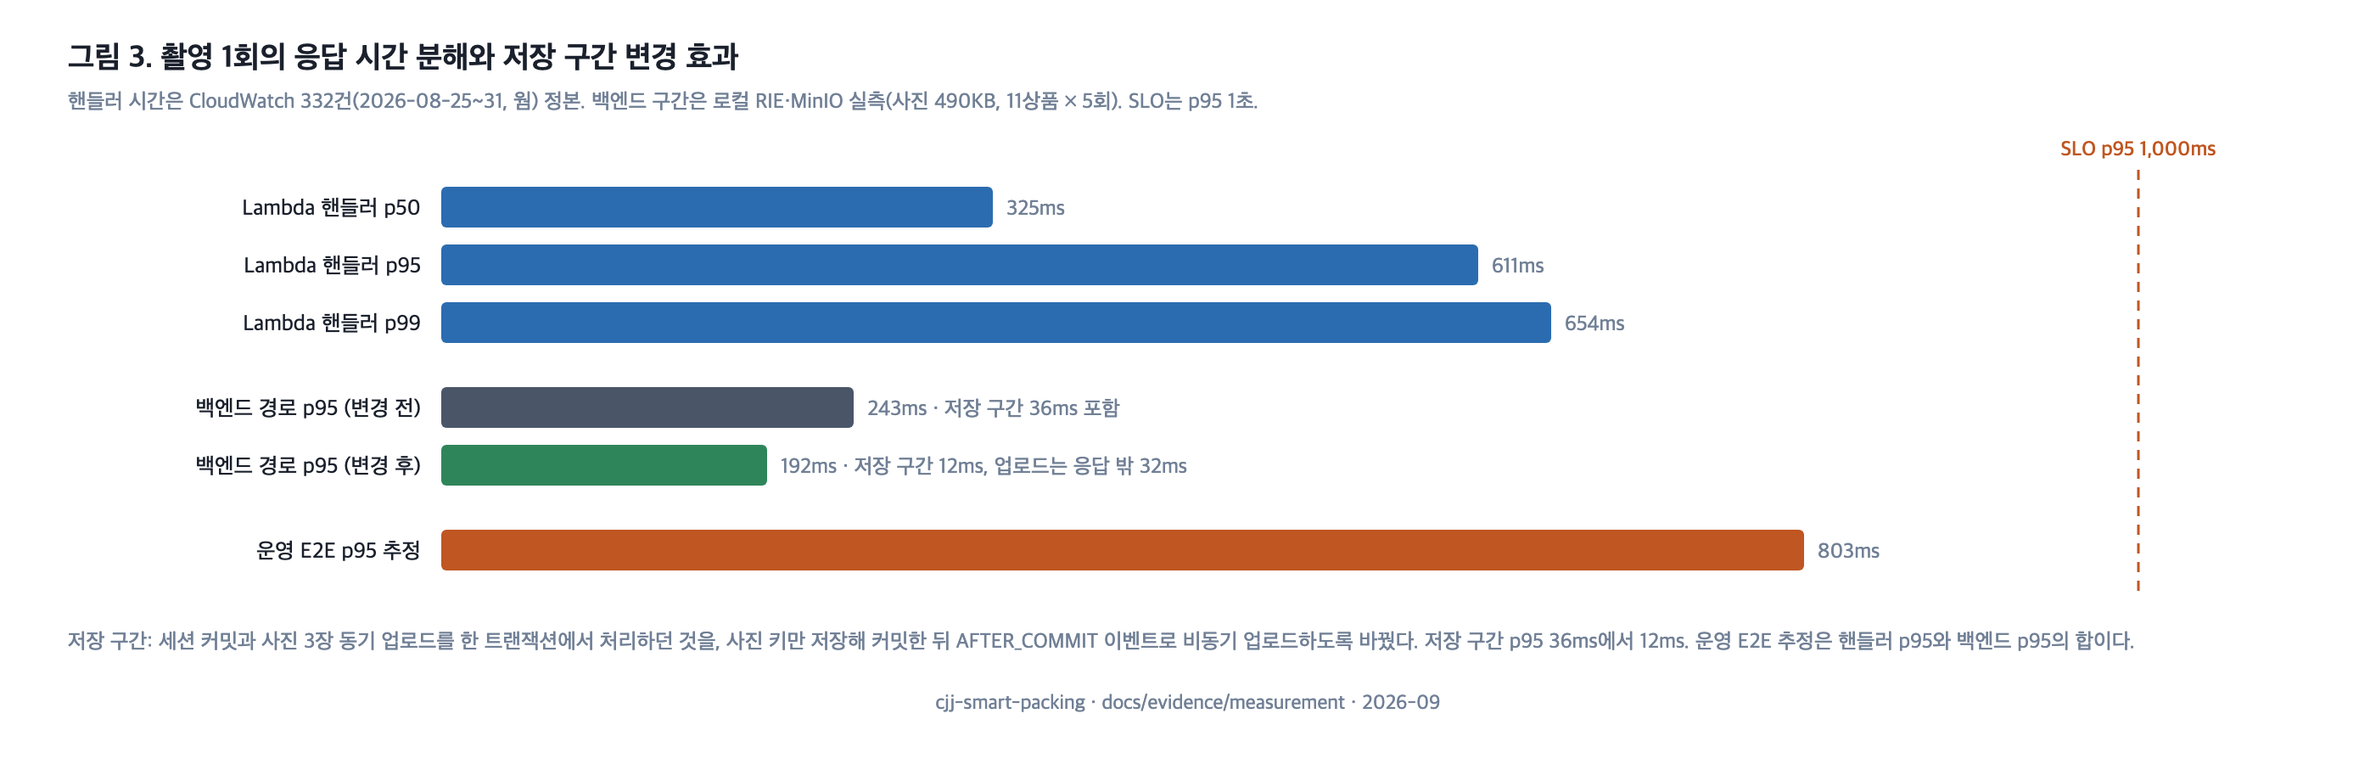
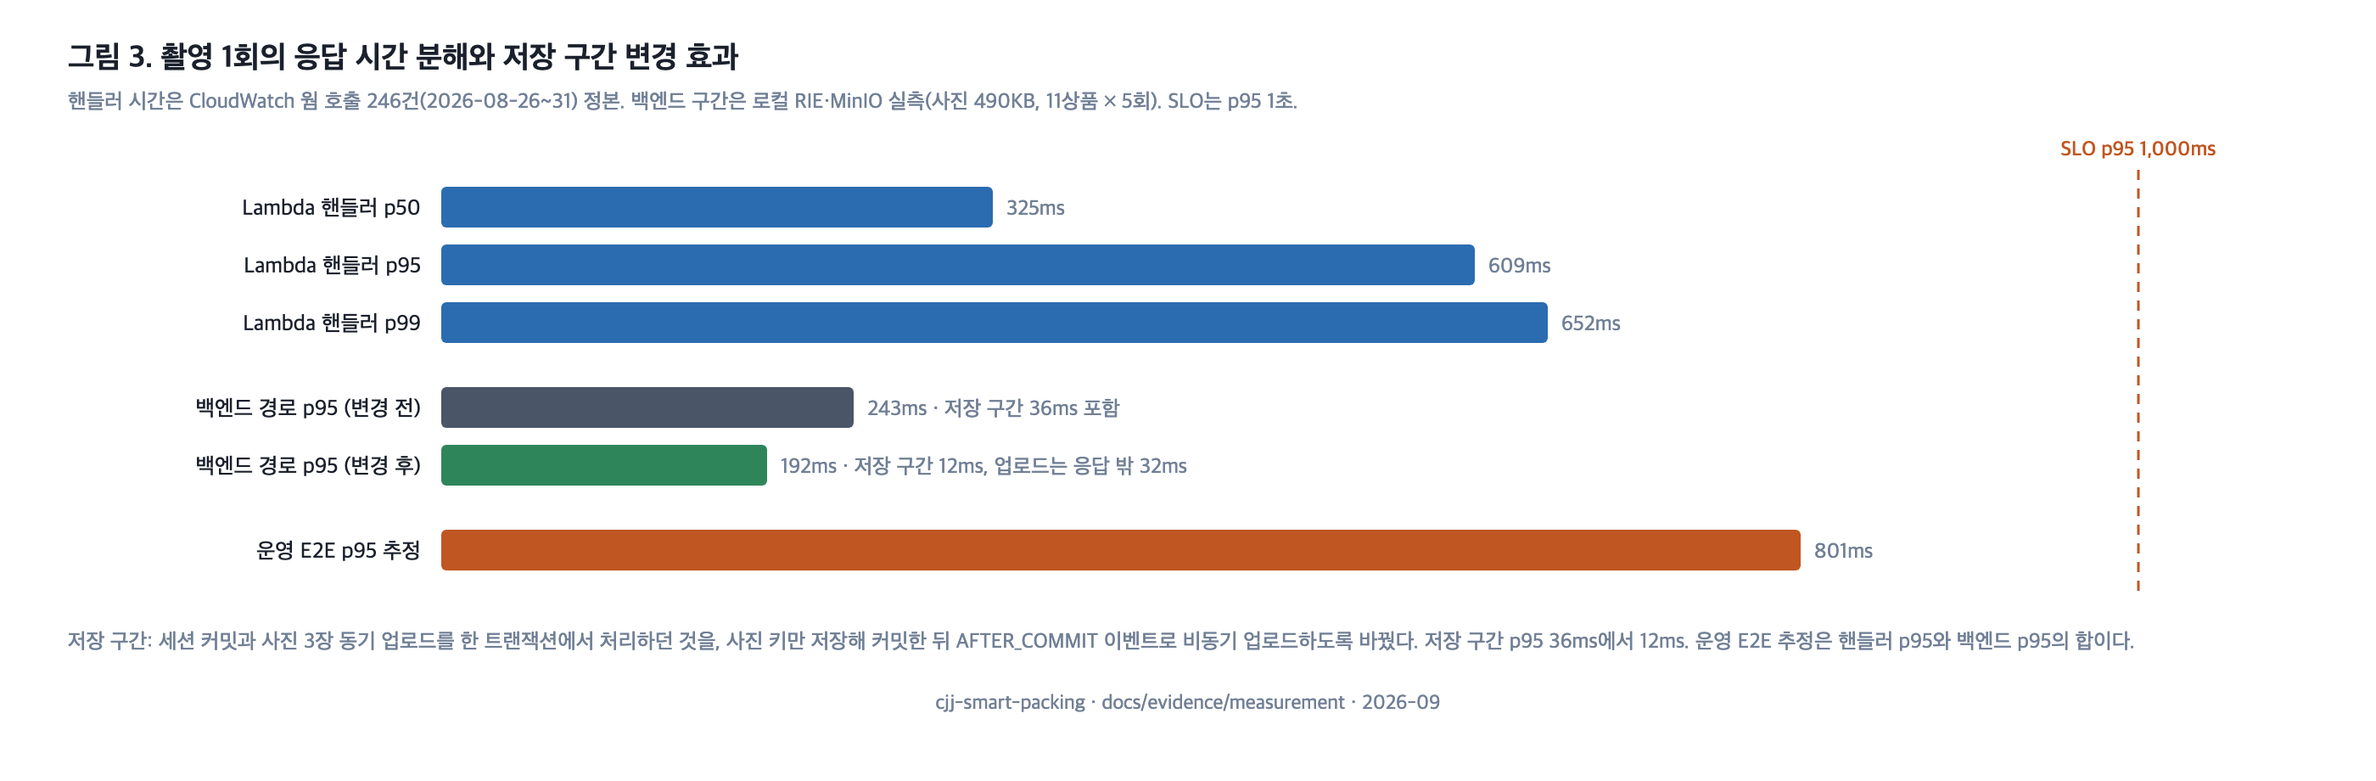
docs: Lambda 호출 통계를 재집계 기준으로 정정 (호출 319건, 웜 246건 p95 609ms)
CloudWatch 332는 로그 이벤트 수였다. 8/25 배포 검증일을 제외한 웜 246건 기준으로 통일하고 그림 3을 재생성.
blog: 초안 C v2 — 구조·근거 비평 반영

diff --git a/docs/figures/gen_figures.py b/docs/figures/gen_figures.py
@@ -133,7 +133,7 @@ open("fig4-model-promotion.svg","w").write(svg(1400,560,"\n".join(b),"cjj-smart-
 # ---------- 그림 4. 촬영 1회 시간 분해 ----------
 b=[]
 b.append(label(40,40,"그림 3. 촬영 1회의 응답 시간 분해와 저장 구간 변경 효과",18,weight="700"))
-b.append(label(40,64,"핸들러 시간은 CloudWatch 332건(2026-08-25~31, 웜) 정본. 백엔드 구간은 로컬 RIE·MinIO 실측(사진 490KB, 11상품 × 5회). SLO는 p95 1초.",12.5,C["muted"]))
+b.append(label(40,64,"핸들러 시간은 CloudWatch 웜 호출 246건(2026-08-26~31) 정본. 백엔드 구간은 로컬 RIE·MinIO 실측(사진 490KB, 11상품 × 5회). SLO는 p95 1초.",12.5,C["muted"]))
 scale=1.0  # px per ms
 x0=260; y=110
 def bar(y,name,val,color,note=""):
@@ -142,11 +142,11 @@ def bar(y,name,val,color,note=""):
        label(x0+val*scale+8,y+17,f"{val}ms"+(f"  ·  {note}" if note else ""),12.5,C["muted"])]
     return "\n".join(o)
 b.append(bar(y,"Lambda 핸들러 p50",325,C["accent"])); y+=34
-b.append(bar(y,"Lambda 핸들러 p95",611,C["accent"])); y+=34
-b.append(bar(y,"Lambda 핸들러 p99",654,C["accent"])); y+=50
+b.append(bar(y,"Lambda 핸들러 p95",609,C["accent"])); y+=34
+b.append(bar(y,"Lambda 핸들러 p99",652,C["accent"])); y+=50
 b.append(bar(y,"백엔드 경로 p95 (변경 전)",243,C["edge"],"저장 구간 36ms 포함")); y+=34
 b.append(bar(y,"백엔드 경로 p95 (변경 후)",192,C["ok"],"저장 구간 12ms, 업로드는 응답 밖 32ms")); y+=50
-b.append(bar(y,"운영 E2E p95 추정",611+192,C["warn"])); y+=40
+b.append(bar(y,"운영 E2E p95 추정",609+192,C["warn"])); y+=40
 # SLO line
 sx=x0+1000*scale
 b.append(f"<line x1='{sx}' y1='100' x2='{sx}' y2='{y}' stroke='{C['warn']}' stroke-width='1.5' stroke-dasharray='6 5'/>")

diff --git a/docs/blog/drafts/c-serving.md b/docs/blog/drafts/c-serving.md
@@ -1,6 +1,6 @@
-# GPU 전제 8초 계약을 CPU Lambda로 — 치수 추정 모델 서빙 3일
+# GPU 전제 8초 계약을 CPU Lambda로 옮긴 치수 추정 서빙
 
-추론 API의 타임아웃 8초는 GPU 개발 파드에서 서빙한다는 전제로 정한 값이었습니다(결정 이력 D-15). 근거는 CPU 실측이었습니다. CPU 추론이 V3 모델 5.87초, V2 모델 17.47초였고, GPU면 그 안에 들어온다는 계산이었습니다. 그런데 시연 환경에는 GPU가 없었습니다. AI 담당은 학습 결과를 torch 형식(`model.safetensors`)으로 Hugging Face 비공개 저장소에 올리는 방식으로 일하고 있었고, 그 절차를 바꿀 시간도 없었습니다. 이 글에서는 서빙 위치를 고른 근거, torch를 ONNX로 바꾸는 일을 이미지 빌드에 넣은 이유, 백엔드 연동에서 만난 네 갈림길, 그리고 시연 기간 호출 332건의 분포를 다룹니다.
+치수 추정 모델은 카메라 3대가 찍은 사진 3장을 받아 상품의 가로·세로·높이를 cm로 돌려줍니다. 이 추론 API의 타임아웃 8초는 GPU 개발 파드에서 서빙한다는 전제로 정한 값이었습니다. 근거는 CPU 실측 5.87초였고, GPU 서빙을 전제로 8초를 확정했습니다. 그런데 시연 환경에는 GPU가 없었습니다. AI 담당은 학습 결과를 torch 형식(`model.safetensors`)으로 Hugging Face 비공개 저장소에 올리는 방식으로 일하고 있었고, 그 절차를 바꿀 시간도 없었습니다. 이 글에서는 서빙 위치를 고른 근거, torch를 ONNX로 바꾸는 일을 이미지 빌드에 넣은 이유, 백엔드 계약과 실제 API의 차이를 맞춘 결정, 콜드스타트와 8초 계약의 충돌, 배포 파이프라인에서 막힌 한 지점, 그리고 시연 기간 호출 319건의 분포를 다룹니다.
 
 ## 서빙 위치
 
@@ -9,14 +9,16 @@ Lambda 컨테이너 이미지를 택했습니다. 입고 신규 상품 등록은
 | 방식 | 장점 | 기각 사유 |
 | --- | --- | --- |
 | GPU 개발 파드 | 계약 산정 기준 그대로 | 시연 환경에서 접근·가용 보장 없음. 외부 의존이 요청 경로에 남음 |
-| EC2 상시 서버 + torch | 구조 단순, 콜드스타트 없음 | CPU torch 추론 1,070ms. 간헐 트래픽에 상시 비용. 백엔드와 같은 인스턴스에 동거 |
-| Lambda 컨테이너 + ONNX Runtime (채택) | 호출당 과금. ONNX로 추론 185ms, 모델 로드 0.22초 | 콜드스타트 관리 필요. zip 배포는 250MB 한도라 컨테이너 이미지(10GB) 필수 |
+| EC2 상시 서버 + torch | 구조 단순, 콜드스타트 없음 | CPU torch 추론 1,070ms(macOS 로컬, 4스레드). 간헐 트래픽에 상시 비용. 백엔드와 같은 인스턴스에 동거 |
+| Lambda 컨테이너 + ONNX Runtime (채택) | 호출당 과금. 시연 기간 웜 호출 p50 325ms | 콜드스타트 관리 필요. zip 배포는 250MB 한도라 컨테이너 이미지(10GB) 필수 |
 
-EC2 안은 처음에 병행 트랙으로 만들었다가 폐기했습니다. 인스턴스가 백엔드 서버로 전환되면서 추론 배포 워크플로가 남아 있으면 8000 포트가 충돌했기 때문입니다.
+ONNX Runtime으로 바꾼 효과는 로컬에서 먼저 확인했습니다. 같은 사진 3장 기준으로 추론은 1,070ms에서 185ms로, 모델 로드는 3.10초에서 0.22초로 줄었습니다(macOS, 4스레드, 워밍업 1회 뒤 5회 중앙값). 예측값은 61.6 / 55.8 / 4.0cm로 소수 첫째 자리까지 같았고, 변환 직후 원시 출력 대조에서 max diff는 7.45e-08이었습니다.
 
-## torch에서 ONNX로, 그리고 이미지 빌드 안으로
+이 선택이 성립하는 조건은 둘입니다. 호출이 간헐적이라 상시 서버의 유휴 시간이 길고, 콜드스타트를 허용하거나 피할 수단이 있어야 합니다. 초당 수십 건이 상시로 들어오거나 첫 호출 지연을 절대 허용할 수 없다면 EC2 상시 서버가 맞습니다.
 
-같은 사진 3장 기준으로 추론은 1,070ms에서 185ms로, 모델 로드는 3.10초에서 0.22초로 줄었습니다(macOS, 4스레드, 워밍업 1회 뒤 5회 중앙값). 예측값은 61.6 / 55.8 / 4.0cm로 소수 첫째 자리까지 같았고, 변환 직후 원시 출력 대조에서 max diff는 7.45e-08이었습니다.
+EC2 안은 처음에 병행 트랙으로 만들었다가 폐기했습니다. 인스턴스가 백엔드 서버로 전환되면서 추론 배포 워크플로가 남아 있으면 8000 포트가 충돌했기 때문입니다. safetensors 업로드 절차는 그대로 둔 채, 변환을 누가 언제 할지만 정하면 됐습니다.
+
+## 변환 시점과 이미지 빌드 단계
 
 변환을 사람이 돌려서 올리는 절차는 만들지 않았습니다. Dockerfile을 변환 스테이지와 런타임 스테이지로 나눠, 이미지 빌드가 safetensors를 받아 ONNX로 바꾸고 결과만 런타임 이미지에 남깁니다.
 
@@ -39,9 +41,9 @@ if not diff <= tolerance:                                    # tolerance = 1e-4
 
 비교 조건을 `diff > tol`이 아니라 `not diff <= tol`로 쓴 이유는 주석에 있습니다. 변환이 깨져 NaN이 나오면 `diff > tol`은 False라 통과해 버립니다.
 
-## 백엔드 연동의 네 갈림길
+## 백엔드 계약과 실제 API의 차이
 
-백엔드가 들고 있던 잠정 계약과 실제 Lambda API는 거의 모든 항목에서 달랐습니다.
+백엔드가 들고 있던 잠정 계약과 실제 Lambda API는 형식이 전부 달랐습니다.
 
 | 항목 | 백엔드 잠정 계약 | 실제 Lambda |
 | --- | --- | --- |
@@ -50,51 +52,63 @@ if not diff <= tolerance:                                    # tolerance = 1e-4
 | 인증 | 없음 | `X-API-Key` 헤더 + IAM `lambda:InvokeFunction` |
 | 통로 | HTTP | SDK Invoke, API Gateway v2 이벤트 형식, body base64 |
 | 응답 | `widthCm, lengthCm, heightCm, confidence` | `length, width, height, views_used, warnings, elapsed_ms`. confidence 없음 |
-| 타임아웃 | 8초 | 웜 0.3~0.5초, 콜드 약 10초 |
 
-여기서 결정할 것이 넷이었습니다.
+형식에서 결정할 것이 셋이었습니다.
 
-**이미지 출처.** 프론트가 사진 3장을 첨부하는 안(계약이 JSON에서 multipart로 바뀜), 백엔드가 상품별 사진을 보관해 그것으로 호출하는 안, 둘의 혼합 중 두 번째를 택했습니다. 프론트에 촬영·업로드 화면이 없었고, 시연 상품의 사진은 시연 데이터 서브시스템이 이미 관리하고 있었습니다. 사진이 없으면 `MEASURE_FAILED(NO_IMAGES)`로 끝냅니다.
+**이미지 출처.** 프론트가 사진 3장을 첨부하는 안(계약이 JSON에서 multipart로 바뀜), 백엔드가 상품별 사진을 보관해 그것으로 호출하는 안, 둘의 혼합 중 두 번째를 택했습니다. 프론트에 촬영·업로드 화면이 없었고, 시연 상품의 사진은 시연 데이터 서브시스템(시연용 상품·주문·사진을 적재하고 리셋하는 백엔드 모듈)이 이미 관리하고 있었습니다. 단점은 분명합니다. 촬영과 무관한 고정 사진이라 재촬영해도 결과가 같습니다. 사진이 없으면 `MEASURE_FAILED(NO_IMAGES)`로 끝냅니다.
 
 **호출 통로.** 공개 URL을 두지 않았습니다. 백엔드가 EC2 인스턴스 프로파일로 AWS SDK `Invoke`를 호출하고, API Gateway v2 형식의 이벤트 JSON(multipart body를 base64로)을 직접 조립합니다. AWS 리소스 변경이 없고 저장된 자격증명이 없습니다. Function URL에 IAM 인증을 붙이는 안은 SigV4 서명 의존과 권한 추가가 필요했고, 인증 없는 Function URL은 주소를 아는 누구나 호출할 수 있어 기각했습니다.
 
 **confidence 부재.** 모델은 신뢰도를 내보내지 않습니다. 표본 958개로는 구간별 확률표가 불안정해 학습 담당이 의도적으로 뺐습니다. 응답 필드는 유지하되 null을 허용하고, null이면 저신뢰 판정을 건너뜁니다. `views_used`나 `warnings`로 대체값을 만드는 안은 근거 없는 숫자를 신뢰도로 보여주는 것이라 기각했습니다.
 
-**콜드스타트 10초 대 계약 8초.** 첫 호출은 모델 로드까지 약 10초로 계약을 넘겼습니다.
+형식은 이렇게 맞췄습니다. 남은 것은 시간이었습니다.
+
+## 콜드스타트와 8초 계약
+
+첫 호출은 계약을 넘겼습니다. 설계 시점의 추정은 모델 로드까지 약 10초였고, 8월 25일 실서버 첫 호출은 4.9초, 웜 호출은 0.3~0.5초였습니다. 시연 첫 촬영이 실패 화면으로 끝나는 경로였습니다.
 
 | 방식 | 결과 | 기각 사유 |
 | --- | --- | --- |
-| 타임아웃 상향(8초 → 15초) | 첫 호출도 성공 | 시연 첫 촬영의 10초 대기가 화면에 그대로 보임 |
+| 타임아웃 상향(8초 → 15초) | 첫 호출 성공 가능성 상승 | 시연 첫 촬영의 긴 대기가 화면에 그대로 보임 |
 | 백엔드 주기 워밍 핑 | AWS 변경 없음 | 환경 교체 시 보장 없음. 백엔드 기동 직후 첫 호출은 콜드 |
-| Provisioned concurrency 상시 1 | 콜드스타트 제거 | 유휴 과금 월 약 32달러(3,008MB 상시, 미국 동부 단가) |
+| Provisioned concurrency 상시 1 | 콜드스타트 제거 | 3,008MB 실행 환경 하나를 상시 과금 |
 | 시연 시간대만 Provisioned concurrency 예약 (채택) | 계약 8초 유지, 시연 시간 외 비용 0 | 버전 발행·별칭·Application Auto Scaling 예약 액션 관리 |
 
-Application Auto Scaling의 예약 액션 두 개로 시연 당일 08:50에 1로 올리고 17:00에 0으로 내렸습니다. 함수 메모리는 3,008MB입니다. 10,240MB로 올리려 했으나 계정 쿼터가 3,008MB였고 증설은 Support 케이스가 필요했습니다.
+Application Auto Scaling의 예약 액션 두 개로 시연 당일 08:50에 1로 올리고 17:00에 0으로 내렸습니다.
 
-## 배포 자동화와 백엔드 쪽 두 가지 수정
+함수 메모리는 3,008MB입니다. 메모리를 올린 이유는 용량이 아니라 vCPU 배정입니다. Lambda는 메모리에 비례해 vCPU를 배정하고, 1,769MB에서 1개입니다. 3,008MB면 약 1.7개라 ONNX Runtime 스레드 `N_THREADS`는 올림한 2로 뒀습니다. 배정보다 스레드가 많으면 서로 CPU를 뺏어 느려집니다. 10,240MB로 올리면 약 6개까지 배정되지만, 당시 확인한 계정 쿼터가 3,008MB였고 증설은 Support 케이스를 거쳐야 해서 신청하지 않았습니다.
 
-배포는 GitHub Actions가 OIDC로 AWS 역할을 위임받아 ECR push, Lambda 코드 갱신, `live` 별칭 이동까지 자동으로 합니다. 액세스 키를 저장소에 두지 않습니다. 여기서 한 번 막혔습니다. 신뢰 정책에 `repo:cj-ai-sw/ai:*`를 넣었는데 `Not authorized to perform sts:AssumeRoleWithWebIdentity`가 났습니다. 이 조직의 토큰은 `sub` 클레임이 `repo:cj-ai-sw@316033991/ai@1340552961:ref:...`처럼 소유자 ID와 저장소 ID가 붙은 형식으로 발급됐습니다. 이름형과 ID형을 둘 다 넣어야 매칭됩니다.
+백엔드 쪽에서는 추론 호출을 트랜잭션 밖으로 뺐습니다. 콜드 호출이 몇 초씩 걸리는 동안 DB 커넥션을 잡고 있을 이유가 없습니다. 측정 저장을 별도 빈으로 분리해 트랜잭션 경계가 실제로 생기게 했습니다. 같은 빈 안의 내부 호출은 프록시를 타지 않아 경계가 생기지 않습니다. 세션은 결과 상태로 한 번에 만들어지므로 순서를 바꿔도 중간 상태가 생기지 않습니다.
 
-백엔드 배포도 같은 방식입니다. 인스턴스에 SSH 포트를 열지 않고, 러너가 SSM Run Command로 명령을 보내면 Ubuntu AMI에 들어 있는 SSM 에이전트가 실행합니다. 처음에는 인스턴스가 매 배포마다 Gradle 빌드를 돌렸는데, 빌드가 몇 분씩 시연 서버를 붙잡았고 실패해도 돌아갈 아티팩트가 없었습니다. 이미지 빌드를 CI로 옮기고 인스턴스는 ECR에서 pull만 하도록 바꿨습니다. 헬스가 잡히지 않으면 직전 이미지로 되돌립니다.
+## 배포 파이프라인에서 막힌 지점
 
-백엔드 코드에는 두 가지를 고쳤습니다. 첫째, 추론 호출을 트랜잭션 밖으로 뺐습니다. 콜드스타트 10초 동안 DB 커넥션을 잡고 있을 이유가 없습니다. 측정 저장을 별도 빈으로 분리해 트랜잭션 경계가 실제로 생기게 했습니다. 같은 빈 안의 내부 호출은 프록시를 타지 않아 경계가 생기지 않습니다. 세션은 결과 상태로 한 번에 만들어지므로 순서를 바꿔도 중간 상태가 생기지 않습니다. 둘째, 프론트를 Vercel로 옮기면서 백엔드가 인터넷에 노출되자 모든 요청에 공유 키(`X-Demo-Key`)를 요구하는 필터를 넣었습니다. 키는 프론트가 서버 사이드에서만 붙이고, 실패 응답은 경로를 되돌려주지 않습니다. 헬스체크만 열어 둡니다.
+배포는 GitHub Actions가 OIDC로 AWS 역할을 위임받아 ECR push, Lambda 코드 갱신, `live` 별칭 이동까지 자동으로 합니다. 액세스 키를 저장소에 두지 않습니다. 여기서 한 번 막혔습니다. 신뢰 정책에 `repo:cj-ai-sw/ai:*`를 넣었는데 `Not authorized to perform sts:AssumeRoleWithWebIdentity`가 났습니다. 8월 25일 토큰을 직접 디코드해 보니 이 조직의 `sub` 클레임은 `repo:cj-ai-sw@316033991/ai@1340552961:ref:...`처럼 소유자 ID와 저장소 ID가 붙은 형식이었습니다. 이름형과 ID형을 둘 다 넣어야 매칭됩니다.
 
-## 시연 기간 호출 332건
+## 시연 기간 호출 319건
 
-EC2 실서버에서 처음 확인한 E2E는 2.6초였습니다. Lambda 초기화 1.2초와 핸들러 0.5초가 들어 있고, 핸들러 로그는 `views_used=3 elapsed_ms=473`이었습니다. 시연 기간(8월 25일~31일) CloudWatch에 남은 호출 332건의 분포는 다음과 같습니다.
+8월 26일 이후 웜 호출 246건의 처리 시간은 p50 325ms, p95 609ms, 최대 695ms로 8초 계약 안에 들어왔습니다. 8초를 넘긴 호출은 8월 25일 배포 검증 중 3건뿐이고, 시연 당일 73건은 초과가 없습니다.
+
+CloudWatch 로그 이벤트 332건 중 실제 호출은 319건입니다(나머지 13건은 초기화 단독 이벤트). 입력은 상품별 고정 시드 사진 3장이고, 백분위는 nearest-rank로 계산했습니다.
 
 | 구분 | 건수 | p50 | p95 | p99 | 최대 |
 | --- | ---: | ---: | ---: | ---: | ---: |
-| 웜 호출 처리 시간 | 250 | 325ms | 611ms | 654ms | 695ms |
-| 콜드 호출 초기화 시간 | 80 | 1.2초 | | | |
+| 웜 호출 처리 시간 (8월 26일 이후) | 246 | 325ms | 609ms | 652ms | 695ms |
+| 콜드 호출 초기화 시간 (전 기간) | 67 | 1.2초 | 2.1초 | | 9.5초 |
+| 시연 당일 웜 호출 | 71 | 318ms | 596ms | | 695ms |
 
-최대 메모리 사용은 877MB로 3,008MB 설정의 3분의 1입니다. 메모리를 올린 이유는 용량이 아니라 vCPU 배정입니다. Lambda는 메모리에 비례해 vCPU를 배정하고(1,769MB당 1개), 3,008MB에서 약 1.7개입니다. `N_THREADS`는 이 값에 맞춰 2로 둡니다. 배정보다 스레드가 많으면 서로 CPU를 뺏어 느려집니다.
+8월 25일 배포 검증일의 웜 6건을 넣으면 최대값이 30.4초로 뜁니다. 첫 배포 직후 함수 갱신과 겹친 호출이며, 그날의 초기화 3건은 9.3~9.5초로 Lambda 초기화 상한 10초 근처였습니다. 시연 당일은 콜드가 2건뿐이고 초기화 최대 1.3초였습니다. 예약 프로비저닝이 첫 촬영을 웜으로 만든 결과입니다.
+
+실서버에서 처음 확인한 E2E 한 건은 2.6초였습니다. Lambda 초기화 1.2초와 핸들러 0.5초를 빼면 0.9초가 남습니다. 이 0.9초는 백엔드 경로입니다. 사진을 읽고, 이벤트를 조립하고, Invoke 왕복을 기다리고, 응답을 저장하는 시간인데, 이때는 구간별로 재지 않았습니다. 이 분해가 다음 글의 출발점입니다.
+
+최대 메모리 사용은 877MB로 설정 3,008MB의 29%입니다. 메모리 설정은 용량이 아니라 vCPU 때문이므로, 사용량이 낮다고 설정을 내리면 스레드 배정이 줄어 느려집니다.
 
 ## 남은 것
 
-8초 계약은 지켰지만 기준으로는 의미가 없어졌습니다. 웜 p95가 611ms인 시스템에 8초 타임아웃은 실패 판정 기준일 뿐, 작업자가 촬영 버튼을 누르고 기다리는 시간의 목표가 아닙니다. 계약을 1초로 다시 정하고 구간별로 잰 이야기는 다음 글에서 다룹니다.
+타임아웃은 실패 판정 기준이고, 작업자가 기다리는 시간의 목표는 따로 정해야 합니다. 웜 p95가 609ms인 시스템에 8초 타임아웃은 기준으로 의미가 없습니다. 계약을 1초로 다시 정하고 백엔드 구간까지 잰 이야기는 다음 글에서 다룹니다.
 
-동시 촬영은 재지 못했습니다. 시연은 작업자 한 명이 순차로 촬영하는 구성이었습니다. 3,008MB 쿼터는 증설 신청을 하지 않았습니다. 콜드스타트는 시연 시간대 예약으로 피했을 뿐 없앤 것이 아닙니다.
+같은 구성을 쓰는 시스템이라면 세 가지를 점검할 수 있습니다. 타임아웃이 실패 판정 기준인지 체감 목표인지, 콜드 호출의 비율과 초기화 시간을 로그에서 분리해 보고 있는지, 프로비저닝 예약이 행사 뒤에도 남아 과금되고 있지 않은지입니다.
+
+동시 촬영은 재지 못했습니다. 시연은 작업자 한 명이 순차로 촬영하는 구성이었습니다. 콜드스타트는 시연 시간대 예약으로 피했을 뿐 없앤 것이 아닙니다.
 
 코드는 [cjj-smart-packing-ai](https://github.com/dongwooooooo/cjj-smart-packing-ai)의 `inference/`, `deploy/lambda/`, `.github/workflows/`에 있고, 백엔드 호출부는 [cjj-smart-packing-backend](https://github.com/dongwooooooo/cjj-smart-packing-backend)의 `inbound/service/LambdaInferenceClient.java`입니다.
 
@@ -103,5 +117,6 @@ EC2 실서버에서 처음 확인한 E2E는 2.6초였습니다. Lambda 초기화
 참고
 
 - AWS, [Create a Lambda function using a container image](https://docs.aws.amazon.com/lambda/latest/dg/images-create.html) — zip 250MB, 컨테이너 이미지 10GB 한도
+- AWS, [Configure Lambda function memory](https://docs.aws.amazon.com/lambda/latest/dg/configuration-memory.html) — 1,769MB에서 vCPU 1개
 - AWS, [Configuring provisioned concurrency](https://docs.aws.amazon.com/lambda/latest/dg/provisioned-concurrency.html) — Application Auto Scaling 예약 액션
-- GitHub, [Configuring OpenID Connect in Amazon Web Services](https://docs.github.com/en/actions/security-for-github-actions/security-hardening-your-deployments/configuring-openid-connect-in-amazon-web-services) — `sub` 클레임 형식
+- GitHub, [Configuring OpenID Connect in Amazon Web Services](https://docs.github.com/en/actions/security-for-github-actions/security-hardening-your-deployments/configuring-openid-connect-in-amazon-web-services) — `sub` 클레임의 표준 형식. ID형은 2026-08-25 토큰 실측
